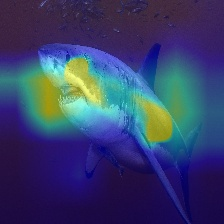
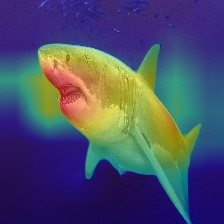
Adjust seam_carving after debugging. Add interpolation script

diff --git a/main.py b/main.py
@@ -3,7 +3,7 @@
 from scripts.utilities import load_rgb_image
 
 # Load RGB image from disk
-image_path = './data/images/cat.jpg'
+image_path = './data/images/jellyfish_tigershark.jpg'
 raw_image = load_rgb_image(image_path)
 
 # -------------------- 2. Run pre-trained CNN for image detection -------------------------------------------------------------------------------------------
@@ -29,11 +29,11 @@ depth_map = depth_estimator.predict_depth(raw_image)
 
 import cv2
 from scripts.gradcam import GradCam
-from scripts.utilities import load_rgb_image, prepare_image, display_heatmap_on_image, combine_feature_maps
+from scripts.utilities import load_rgb_image, prepare_image, display_heatmap_on_image, combine_feature_maps, visualize_image
 import matplotlib.pyplot as plt
 
 # Choose specific class_id or leave 'None' to use class with highest score from ResNet50
-class_id = None
+class_id = 107
 # Choose cnn ratio. A higher value will give more weight to resnet, a lower value to the depth estimation
 cnn_ratio = 0.5
 
@@ -65,21 +65,22 @@ from scripts.painting import HeatmapPainter
 # Create HeatmapPainter instance
 painter = HeatmapPainter(feature_maps)
 # Start painting and save result
-updated_cam = painter.start(display_heatmap_on_image, background_image, image_path)
+updated_map = painter.start(display_heatmap_on_image, background_image, image_path)
 
 # ---------------------- 5. Use map for seam carving and remove pixel columns with low values -------------------------------------------------------------------
 
-from scripts.seam_carving import SeamCarver
+from scripts.seam_carving import SeamCarver, visualize_uncarving
 
 # Choose number of seams that should be removed
-num_seams = 5
+num_seams = 50
 
 # Create SeamCarver instance
-carver = SeamCarver(background_image, updated_cam)
+carver = SeamCarver(background_image, updated_map)
+# carved_image = carver.crop_c(scale_c=0.5)
+
 # Generate carved image and visualize
-carved_image = carver.seam_carve(num_seams=num_seams)
-cv2.imshow('Carved Image', carved_image)
-cv2.waitKey(0)
+carved_image = carver.seam_carve(num_seams)
+visualize_image(carved_image, 'Carved Image')
 
 # ---------------------- 6. Vectorize remaining pixels by replacing them by triangle pairs -----------------------------------------------------------------------
 
@@ -88,18 +89,29 @@ from scripts.vectorization import vectorization, visualize_triangles
 # Vectorize the carved_image
 vertices, triangles = vectorization(carved_image)
 # Visualize triangle pairs
-vector_visualisation = visualize_triangles(vertices, triangles)
+visualize_triangles(vertices, triangles)
 
 # ---------------------- 7. Move vectors back to original positions by "uncarving" the previously removed columns ------------------------------------------------
 
+# Uncarving of vertices
+uncarving_visualisation_input = prepare_image(image_path)
+vertices_updated = carver.uncarve_vertices(vertices)
 
-
+# Visualizations
+visualize_uncarving(uncarving_visualisation_input, vertices_updated)
+visualize_triangles(vertices_updated, triangles)
 
 
 # ---------------------- 8. Smoothly interpolate the colors in the stretched vector graphics and rasterize it back to an image -----------------------------------
+from scripts.color_interpolation import ColorInterpolator
 
+# Create ColorInterpolator instance
+color_interpolator = ColorInterpolator(background_image)
+# Interpolate colors for each triangle
+rasterized_image = color_interpolator.interpolate_colors(vertices_updated, triangles)
 
-
+# Display the final rasterized image
+visualize_image(rasterized_image, 'Rasterized Image')
 
 # ---------------------- 9. Save and display result -------------------------------------------------------------------------------------------------------------
 
@@ -110,10 +122,12 @@ vector_visualisation = visualize_triangles(vertices, triangles)
 
 from scripts.seam_carving import seam_carving_gui
 
-seam_carving_gui(background_image, updated_cam, num_seams)
+seam_carving_gui(background_image, updated_map, num_seams)
 
 # --------------------- 11. Add another CNN with features conditioned on a different type of user input (text, depth map, image, sketch,...) ---------------------------
 
 # See CNN section above
 
 # --------------------12. Devise strategy for orientation of the triangle diagonals -----------------------------------------------------------------------------------------
+
+

diff --git a/scripts/color_interpolation.py b/scripts/color_interpolation.py
@@ -1,0 +1,57 @@
+import numpy as np
+from PIL import Image, ImageDraw
+
+class ColorInterpolator:
+    def __init__(self, image):
+        # Initialize two representations of the image
+        self.image_array = image
+        self.image = Image.fromarray(image)
+    
+    def interpolate_colors(self, vertices, triangles):
+        # Interpolate colors for each triangle
+        # Start by getting the color data for each vertex
+        color_data = self.image_array[vertices[:, 1].astype(np.int32), vertices[:, 0].astype(np.int32)]
+        # Placeholders for the interpolated colors
+        raster_image = Image.new('RGB', self.image.size)
+        # Create a draw object
+        draw = ImageDraw.Draw(raster_image)
+
+        # Loop over all triangles and rasterize them
+        for triangle in triangles:
+            self.rasterize_triangle(vertices, color_data, draw, triangle)
+
+        return raster_image
+
+    def rasterize_triangle(self, vertices, color_data, draw, triangle_indices):
+        # Get the vertices of the triangle
+        triangle = [int(index) for index in triangle_indices]
+        v0, v1, v2 = [vertices[i] for i in triangle]
+        # Get the bounding box of the triangle
+        min_x, max_x, min_y, max_y = self.bounding_box(v0, v1, v2)
+
+        # Loop over all pixels in the bounding box 
+        for x in range(min_x, max_x + 1):
+            for y in range(min_y, max_y + 1):
+                # Get the barycentric weights for the current pixel
+                w0, w1, w2 = self.barycentric_weights(x, y, v0, v1, v2)
+                # Check if the pixel is inside the triangle
+                if w0 >= 0 and w1 >= 0 and w2 >= 0:
+                    # If it is then interpolate the color for the current pixel
+                    color = w0 * color_data[triangle[0]] + w1 * color_data[triangle[1]] + w2 * color_data[triangle[2]]
+                    draw.point((x, y), fill=tuple(color.astype(np.int32)))
+
+    def bounding_box(self, v0, v1, v2):
+        # Get the bounding box of the triangle
+        min_x = max(int(np.min([v0[0], v1[0], v2[0]])), 0)
+        max_x = min(int(np.max([v0[0], v1[0], v2[0]])), self.image.width - 1)
+        min_y = max(int(np.min([v0[1], v1[1], v2[1]])), 0)
+        max_y = min(int(np.max([v0[1], v1[1], v2[1]])), self.image.height - 1)
+        return min_x, max_x, min_y, max_y
+
+    def barycentric_weights(self, x, y, v0, v1, v2):
+        # Calculate the barycentric weights for the a given pixel
+        det = (v1[1] - v2[1]) * (v0[0] - v2[0]) + (v2[0] - v1[0]) * (v0[1] - v2[1])
+        w0 = ((v1[1] - v2[1]) * (x - v2[0]) + (v2[0] - v1[0]) * (y - v2[1])) / det
+        w1 = ((v2[1] - v0[1]) * (x - v2[0]) + (v0[0] - v2[0]) * (y - v2[1])) / det
+        w2 = 1 - w0 - w1
+        return w0, w1, w2

diff --git a/scripts/seam_carving.py b/scripts/seam_carving.py
@@ -24,6 +24,10 @@ class SeamCarver:
                 if j == 0:
                     idx = np.argmin(min_cam[i - 1, j:j + 2])
                     min_energy = min_cam[i - 1, idx + j]
+                elif j == cols - 1:
+                    idx = np.argmin(min_cam[i - 1, j - 1:j + 1])
+                    min_energy = min_cam[i - 1, idx + j - 1]
+                    backtrack[i, j] = idx + j - 1
                 else:
                     idx = np.argmin(min_cam[i - 1, j - 1:j + 2])
                     min_energy = min_cam[i - 1, idx + j - 1]
@@ -41,15 +45,22 @@ class SeamCarver:
         # Get image dimensions and create placeholder for output image (with one less column)
         height, width, _ = self.image.shape
         output_image = np.zeros((height, width-1, 3))
-        
+        output_cam = np.zeros((height, width - 1))
+
         # Loop through the rows and remove pixel that is specified by seam
         for i in range(height):
             remove_pixel = seam[i]
             output_image[i, :, :] = np.delete(self.image[i, :, :], remove_pixel, axis=0)
+            output_cam[i, :] = np.delete(self.cam[i, :], remove_pixel, axis=0)
         
         #Keep track of every seam that is removed to use for uncarving
         self.removed_seams.append(seam.copy())
+        
+        # Update the cam
+        self.cam = output_cam
+        self.image = output_image
 
+        
         # Convert output image
         output_image = output_image.astype(np.uint8)
         
@@ -58,7 +69,7 @@ class SeamCarver:
     def mark_seam(self, seam):
         # mark the seam for visualization
         for row, col in enumerate(seam):
-            self.image[row, col, :] = [0, 0, 255]
+            self.image[row, col-1, :] = [0, 0, 255]
 
     def seam_carve(self, num_seams, mark=False):
         # Find minimum seam and remove it (num_seams times)
@@ -117,3 +128,13 @@ def seam_carving_gui(image, cam, num_seams):
     slider.pack()
 
     root.mainloop()
+
+def visualize_uncarving(image, updated_vertices):
+    # Create a final image with adjusted vertices
+    for x, y in updated_vertices:
+        image[int(y), int(x)] = [50, 50, 50]
+
+    # Show final visualization
+    plt.imshow(image)
+    plt.title('Carved Parts')
+    plt.show()

diff --git a/scripts/utilities.py b/scripts/utilities.py
@@ -1,6 +1,7 @@
 from PIL import Image
 import cv2
 import numpy as np
+import matplotlib.pyplot as plt
 
 # Load an image from the disk and make sure it is RGB. Throw exception when image cannot be loaded.
 def load_rgb_image(file_path):
@@ -25,6 +26,13 @@ def prepare_image(image_path):
     background_image = cv2.resize(background_image, (224, 224))
 
     return background_image
+
+def visualize_image(image, title):
+    # Visualize image with given title
+    plt.imshow(image)
+    plt.title(title)
+    plt.axis('off')
+    plt.show()
 
 def combine_feature_maps(cam, depth_map, cnn_ratio):
     # Combine the cam with the depth map according to the cnn ratio

diff --git a/scripts/painting.py b/scripts/painting.py
@@ -19,8 +19,8 @@ class HeatmapPainter:
         # Determine the max value to cap the intensity    
         max_value = np.max(self.cam)
         # Choose radius for brush size and sigma for gaussian blur
-        radius = 6
-        sigma = 20.0
+        radius = 5
+        sigma = 10.0
 
         # Start painting when left mouse button is pressed
         if event == cv2.EVENT_LBUTTONDOWN:

diff --git a/scripts/vectorization.py b/scripts/vectorization.py
@@ -41,4 +41,5 @@ def visualize_triangles(vertices, triangles):
     #Visualize triangulation
     plt.figure()
     plt.triplot(tri)
+    plt.gca().set_aspect('equal', adjustable='box')
     plt.show()
